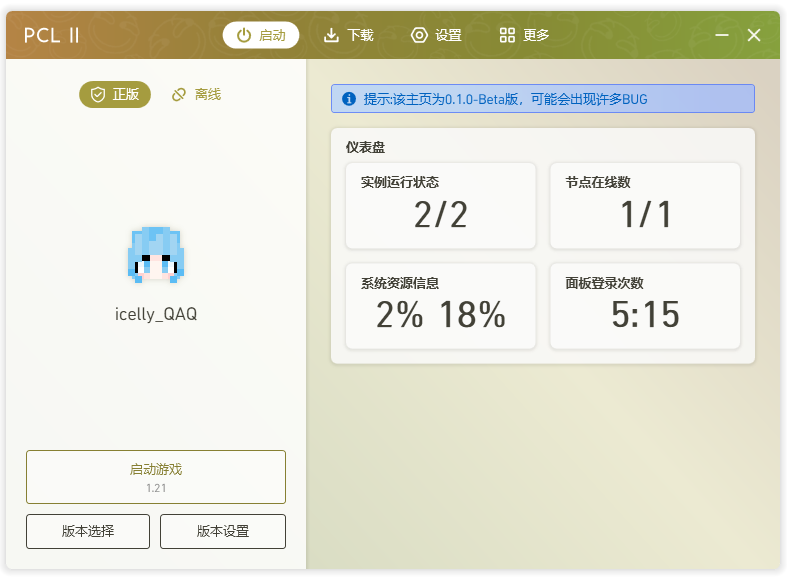
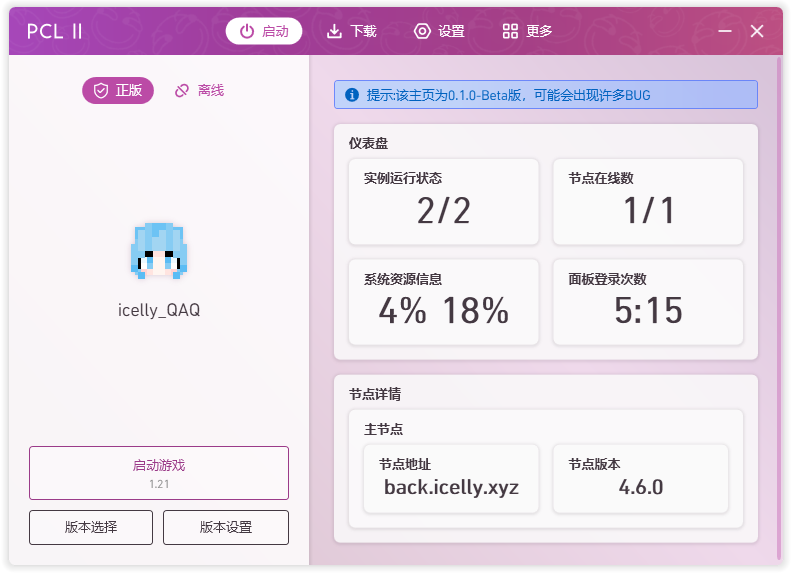
v0.1.1

diff --git a/app.xaml b/app.xaml
@@ -16,12 +16,12 @@
         <local:MyCard Title="实例运行状态" Grid.Row="0" Grid.Column="0" Margin="0,35,0,0">
             <Grid>
                 <TextBlock 
-                    Text="2/2"
+                    Text="${data.runningInstances}/${data.totalInstances}"
                     FontSize="35"
                     FontWeight="Bold"
                     HorizontalAlignment="Center"
                     VerticalAlignment="Top"
-                    Margin="0,30,0,15"/> <!-- 顶部间距，但这里不需要15px的底部间距，因为下面还有卡片 -->
+                    Margin="0,30,0,15"/>
             </Grid>
         </local:MyCard>
 
@@ -29,12 +29,12 @@
         <local:MyCard Title="节点在线数" Grid.Row="0" Grid.Column="2" Margin="0,35,0,0">
             <Grid>
                 <TextBlock 
-                    Text="1/1" 
+                    Text="${data.running}/${data.total}"
                     FontSize="35"
                     FontWeight="Bold"
                     HorizontalAlignment="Center"
                     VerticalAlignment="Top"
-                    Margin="0,30,0,15"/> <!-- 顶部间距，但这里不需要15px的底部间距 -->
+                    Margin="0,30,0,15"/>
             </Grid>
         </local:MyCard>
 
@@ -42,12 +42,12 @@
         <local:MyCard Title="系统资源信息" Grid.Row="1" Grid.Column="0" Margin="0,15,0,0">
             <Grid>
                 <TextBlock 
-                    Text="3% 18%" 
+                    Text="${data.cpuUsage}% ${data.memoryUsage}%"
                     FontSize="35"
                     FontWeight="Bold"
                     HorizontalAlignment="Center"
                     VerticalAlignment="Top"
-                    Margin="0,30,0,15"/> <!-- 顶部间距，底部间距用于与其他元素分隔 -->
+                    Margin="0,30,0,15"/>
             </Grid>
         </local:MyCard>
 
@@ -55,13 +55,15 @@
         <local:MyCard Title="面板登录次数" Grid.Row="1" Grid.Column="2" Margin="0,15,0,0">
             <Grid>
                 <TextBlock 
-                    Text="5:13" 
+                    Text="${data.loginFailed}:${data.logined}"
                     FontSize="35"
                     FontWeight="Bold"
                     HorizontalAlignment="Center"
                     VerticalAlignment="Top"
-                    Margin="0,30,0,15"/> <!-- 顶部间距，底部间距用于与其他元素分隔 -->
+                    Margin="0,30,0,15"/>
             </Grid>
         </local:MyCard>
     </Grid>
+</local:MyCard>
+<local:MyCard Title="节点详情" Margin="0,0,0,15">
 </local:MyCard>

diff --git a/app.js b/app.js
@@ -1,5 +1,5 @@
-const ip = "xxxx";      // 面板地址
-const apikey = "xxxx";  // 面板API密钥
+const ip = "www.icelly.xyz";      // 面板地址
+const apikey = "33938b1f639441918c33371f5c7578bd";  // 面板API密钥
 
 const http = require('http');
 
@@ -47,7 +47,11 @@ async function formatOverviewData(rawData) {
         
         // 面板登录信息
         loginFailed: rawData.data.record.loginFailed || 0,
-        logined: rawData.data.record.logined || 0
+        logined: rawData.data.record.logined || 0,
+
+        // 节点详情
+        nodeIp: rawData.data.remote[0].ip || '未知',
+        nodeVersion: rawData.data.remote[0].version || '未知'
     };
 }
 
@@ -127,6 +131,41 @@ async function handleRequest(request) {
             </Grid>
         </local:MyCard>
     </Grid>
+</local:MyCard>
+<local:MyCard Title="节点详情" Margin="0,0,0,15">
+    <local:MyCard Title="主节点" Margin="15,35,15,15">
+        <Grid Margin="15,0,15,15">
+            <Grid.ColumnDefinitions>
+                <ColumnDefinition Width="*"/> <!-- 第一列 -->
+                <ColumnDefinition Width="15"/> <!-- 分隔列（可选） -->
+                <ColumnDefinition Width="*"/> <!-- 第二列 -->
+            </Grid.ColumnDefinitions>
+
+            <local:MyCard Title="节点地址" Grid.Row="1" Grid.Column="0" Margin="0,35,0,0">
+                <Grid>
+                    <TextBlock 
+                        Text="${data.nodeIp}"
+                        FontSize="20"
+                        FontWeight="Bold"
+                        HorizontalAlignment="Center"
+                        VerticalAlignment="Top"
+                        Margin="0,30,0,15"/>
+                </Grid>
+            </local:MyCard>
+
+            <local:MyCard Title="节点版本" Grid.Row="1" Grid.Column="2" Margin="0,35,0,0">
+                <Grid>
+                    <TextBlock 
+                        Text="${data.nodeVersion}"
+                        FontSize="20"
+                        FontWeight="Bold"
+                        HorizontalAlignment="Center"
+                        VerticalAlignment="Top"
+                        Margin="0,30,0,15"/>
+                </Grid>
+            </local:MyCard>
+        </Grid>
+    </local:MyCard>
 </local:MyCard>
 `;
 
